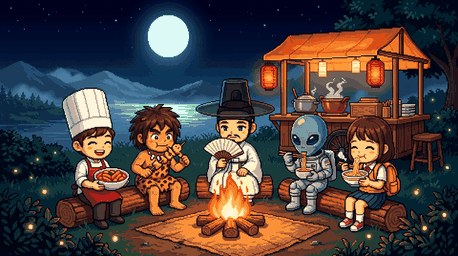
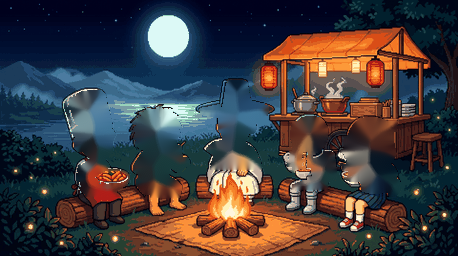
메인 화면: 캐릭터만 오려내 움직이고 뒤 배경은 그대로 (원시인 머리 뒤 호수가 같이 움직이던 문제)
- GrabCut으로 캐릭터 5명 윗몸만 오려 title_chars.png, 지운 자리는 주변 배경으로 채운 title.png
- 가만히 있을 때는 원본과 픽셀 단위로 같음, 씹을 때 머리를 두 번 그리지 않게

Claude-Session: https://claude.ai/code/session_0158wwMB9e4mDcVmGF2JCoym

Changed region(s): [[0.1223, 0.3438, 0.4279, 0.7812], [0.6114, 0.4375, 0.8865, 0.7812], [0.4279, 0.3125, 0.5808, 0.6875]]

diff --git a/js/title-bg.js b/js/title-bg.js
@@ -1,6 +1,7 @@
 // 메인 화면 배경: 달밤 모닥불 포장마차 그림(458×256 도트) + 별·모닥불·초롱·반딧불 움직임
 // 처음에는 그림 + 로고 + '게임 시작' 버튼, 누르면 그림이 어두워지고 로그인 칸이 뜸
-const SRC = 'assets/px/title.png';
+const SRC = 'assets/px/title.png';            // 캐릭터 윗몸을 지운 배경
+const CHARS = 'assets/px/title_chars.png';    // 캐릭터 윗몸만 (투명 배경)
 const IW = 458, IH = 256;
 const FIRE = { x: 230, y: 205 };
 const LANTERNS = [[303, 43], [373, 41], [411, 46], [342, 66]];
@@ -9,14 +10,14 @@ const SKY = '#01011d', GROUND = '#04141c';
 // ---------- 캐릭터 움직임 (그림 좌표) ----------
 // body: 숨쉬기(아래 기준으로 위로 살짝 늘었다 줄었다), head: 냠냠 씹기, fan: 부채질, eyes: 눈 깜빡임(lid: 눈꺼풀 색 뽑을 곳)
 const ACTORS = [
-  { name: 'chef', body: [60, 86, 128, 197], breath: [0.011, 2.1, 0.0] },
-  { name: 'caveman', body: [129, 100, 190, 198], breath: [0.010, 2.5, 1.3], head: [129, 102, 190, 158], chew: [13, 0.6],
+  { name: 'chef', body: [62, 88, 131, 197], breath: [0.011, 2.1, 0.0] },
+  { name: 'caveman', body: [129, 103, 191, 198], breath: [0.010, 2.5, 1.3], head: [129, 103, 191, 158], chew: [13, 0.6],
     eyes: [[151, 133, 7, 6], [166, 133, 7, 6]], lid: [160, 138] },
-  { name: 'scholar', body: [203, 76, 262, 170], breath: [0.008, 1.7, 2.6], fan: [203, 137, 244, 163],
+  { name: 'scholar', body: [197, 78, 270, 170], breath: [0.008, 1.7, 2.6], fan: [203, 137, 244, 163],
     eyes: [[221, 125, 9, 5], [237, 125, 9, 5]], lid: [233, 128] },
-  { name: 'alien', body: [283, 112, 338, 190], breath: [0.012, 2.7, 4.0],
+  { name: 'alien', body: [284, 114, 338, 190], breath: [0.012, 2.7, 4.0],
     eyes: [[292, 135, 9, 9], [306, 134, 10, 10]], lid: [303, 131] },
-  { name: 'girl', body: [343, 118, 402, 200], breath: [0.010, 2.3, 5.1], head: [343, 120, 402, 158], chew: [12, 2.4] },
+  { name: 'girl', body: [338, 115, 403, 200], breath: [0.010, 2.3, 5.1], head: [338, 115, 403, 158], chew: [12, 2.4] },
 ];
 const STEAM = [[112, 171], [303, 165], [356, 169], [336, 82], [312, 90]];
 const lidColor = {};
@@ -24,11 +25,12 @@ const blinkAt = {};
 const steam = [];
 function sampleLids() {
   const c = document.createElement('canvas'); c.width = IW; c.height = IH;
-  const g = c.getContext('2d'); g.drawImage(img, 0, 0);
+  const g = c.getContext('2d'); g.drawImage(chars || img, 0, 0);
   for (const a of ACTORS) if (a.lid) { const d = g.getImageData(a.lid[0], a.lid[1], 1, 1).data; lidColor[a.name] = `rgb(${d[0]},${d[1]},${d[2]})`; }
 }
 
 let img = null;
+let chars = null;
 let canvas = null;
 let raf = 0;
 let running = false;
@@ -41,7 +43,8 @@ const stars = Array.from({ length: 30 }, () => ({ x: Math.random() * IW, y: Math
 export async function initTitleBg() {
   canvas = document.getElementById('titleBg');
   if (!canvas) return;
-  img = await new Promise((res) => { const i = new Image(); i.onload = () => res(i); i.onerror = () => res(null); i.src = SRC; });
+  const load = (src) => new Promise((res) => { const i = new Image(); i.onload = () => res(i); i.onerror = () => res(null); i.src = src; });
+  [img, chars] = await Promise.all([load(SRC), load(CHARS)]);
   if (!img) return;
   try { sampleLids(); } catch (e) { /* ignore */ }
   window.addEventListener('resize', () => { if (running) draw(performance.now()); });
@@ -139,28 +142,32 @@ function draw(now) {
 function stretchY(g, X, Y, s, [x0, y0, x1], anchorSrc, anchorDst, sy) {
   const w = x1 - x0, h = anchorSrc - y0;
   const top = anchorDst - h * sy;
-  g.drawImage(img, x0, y0, w, h, X(x0), Y(top), w * s, (anchorDst - top) * s);
+  g.drawImage(chars, x0, y0, w, h, X(x0), Y(top), w * s, (anchorDst - top) * s);
 }
 function stretchX(g, X, Y, s, [x0, y0, x1, y1], anchorX, sx) {
   const w = anchorX - x0, h = y1 - y0;
   const left = anchorX - w * sx;
-  g.drawImage(img, x0, y0, w, h, X(left), Y(y0), (anchorX - left) * s, h * s);
+  g.drawImage(chars, x0, y0, w, h, X(left), Y(y0), (anchorX - left) * s, h * s);
 }
 
 function drawActors(g, t, X, Y, s) {
+  if (!chars) return;
   for (const a of ACTORS) {
     const [amp, rate, ph] = a.breath;
     const [x0, y0, x1, base] = a.body;
     const sb = 1 + amp * (0.5 + 0.5 * Math.sin(t * rate + ph));
-    stretchY(g, X, Y, s, [x0, y0, x1], base, base, sb);
-    // 냠냠: 몇 초마다 1.5초쯤 머리가 오물오물
-    if (a.head) {
+    // 냠냠: 몇 초마다 1.5초쯤 머리가 오물오물 (그때는 몸은 목 아래만, 머리는 따로 그려서 겹치지 않게)
+    const chewing = a.head && ((t + a.chew[1]) % 4) < 1.6;
+    if (chewing) {
       const [hx0, hy0, hx1, neck] = a.head;
-      const [crate, coff] = a.chew;
-      const chewing = ((t + coff) % 4) < 1.6;
-      const sc = chewing ? 1 + 0.03 * (0.5 + 0.5 * Math.sin(t * crate)) : 1;
       const neckDst = base - (base - neck) * sb;
-      if (chewing) stretchY(g, X, Y, s, [hx0, hy0, hx1], neck, neckDst, sc);
+      g.save(); g.beginPath(); g.rect(X(x0) - 2, Y(neckDst), (x1 - x0) * s + 4, (base - neckDst) * s + 2); g.clip();
+      stretchY(g, X, Y, s, [x0, y0, x1], base, base, sb);
+      g.restore();
+      const sc = 1 + 0.03 * (0.5 + 0.5 * Math.sin(t * a.chew[0]));
+      stretchY(g, X, Y, s, [hx0, hy0, hx1], neck, neckDst, sc);
+    } else {
+      stretchY(g, X, Y, s, [x0, y0, x1], base, base, sb);
     }
     // 부채질: 손잡이(오른쪽) 기준으로 부채가 살랑살랑
     if (a.fan) {

diff --git a/js/main.js b/js/main.js
@@ -8,25 +8,25 @@ import {
   INGREDIENTS, MENUS, ITEMS, FRIDGE_LEVELS, RESCUE_BASE, RESCUE_PER_CORRECT, won,
   hireStaff, fireStaff, staffOf, totalWages, sellIngredient, clearFridge, missingHint, setSaveScope,
   expandShop, nextShopLevel, buffSummary,
-} from './shop-engine.js?v=20261127013038';
-import { SHOP_LEVELS, gridOf } from './shop-levels.js?v=20261127013038';
-import { tryLogin, createAccount, lastLogin, hash, accountId, rememberServerAccount } from './account.js?v=20261127013038';
-import { liveKickGuest, liveClassControl, serverClosed, initLive, liveLogin, liveLogout, liveMode, liveSceneReady, liveVisitStart, liveVisitSticker, liveVisitEnd, isOnline, presenceOf } from './live.js?v=20261127013038';
-import { ERAS, eraOf, eraById, dexListOf, dexReward, MODERN_NAMES } from './data-eras.js?v=20261127013038';
-import { ensureEra, isUnlocked, eraReq, checkUnlocks, travel, dexProgress, claimDex } from './era-engine.js?v=20261127013038';
-import { registerEraArt, ERA_PEOPLE } from './era-art.js?v=20261127013038';
-import { initTitleBg, showTitleBg, dimTitleBg } from './title-bg.js?v=20261127013038';
-import { initCloud, cloudOn, cloudGetShop, cloudSaveShop, cloudRefreshClass, cloudWatchClass } from './cloud.js?v=20261127013038';
-import { syncGuestbook, STICKERS, stickerById, listClassmates, cheersLeftToday, cheeredToday, sendCheer, guestbookOf, pullIncomingCheers, ranking, RANKINGS, isDemo, CHEERS_PER_DAY } from './social-engine.js?v=20261127013038';
-import { STAFF_ROLES, STAFF_ORDER, speedStars } from './data-staff.js?v=20261127013038';
-import { QuizEngine } from './quiz-engine.js?v=20261127013038';
-import { QuizUI } from './quiz-ui.js?v=20261127013038';
-import { Business } from './business.js?v=20261127013038';
-import { sfx } from './sfx.js?v=20261127013038';
-import { loadSprites, spriteImg } from './sprites.js?v=20261127013038';
-import { ING_SPRITE } from './sprite-atlas.js?v=20261127013038';
-import { loadPx, pxImg, DISH_PX, ITEM_PX } from './px.js?v=20261127013038';
-import { CHEF_PARTS, CHEF_PART_LABEL, defaultChefStyle, randomChefStyle, registerChef, chefSheetOf } from './chef-maker.js?v=20261127013038';
+} from './shop-engine.js?v=20261127014359';
+import { SHOP_LEVELS, gridOf } from './shop-levels.js?v=20261127014359';
+import { tryLogin, createAccount, lastLogin, hash, accountId, rememberServerAccount } from './account.js?v=20261127014359';
+import { liveKickGuest, liveClassControl, serverClosed, initLive, liveLogin, liveLogout, liveMode, liveSceneReady, liveVisitStart, liveVisitSticker, liveVisitEnd, isOnline, presenceOf } from './live.js?v=20261127014359';
+import { ERAS, eraOf, eraById, dexListOf, dexReward, MODERN_NAMES } from './data-eras.js?v=20261127014359';
+import { ensureEra, isUnlocked, eraReq, checkUnlocks, travel, dexProgress, claimDex } from './era-engine.js?v=20261127014359';
+import { registerEraArt, ERA_PEOPLE } from './era-art.js?v=20261127014359';
+import { initTitleBg, showTitleBg, dimTitleBg } from './title-bg.js?v=20261127014359';
+import { initCloud, cloudOn, cloudGetShop, cloudSaveShop, cloudRefreshClass, cloudWatchClass } from './cloud.js?v=20261127014359';
+import { syncGuestbook, STICKERS, stickerById, listClassmates, cheersLeftToday, cheeredToday, sendCheer, guestbookOf, pullIncomingCheers, ranking, RANKINGS, isDemo, CHEERS_PER_DAY } from './social-engine.js?v=20261127014359';
+import { STAFF_ROLES, STAFF_ORDER, speedStars } from './data-staff.js?v=20261127014359';
+import { QuizEngine } from './quiz-engine.js?v=20261127014359';
+import { QuizUI } from './quiz-ui.js?v=20261127014359';
+import { Business } from './business.js?v=20261127014359';
+import { sfx } from './sfx.js?v=20261127014359';
+import { loadSprites, spriteImg } from './sprites.js?v=20261127014359';
+import { ING_SPRITE } from './sprite-atlas.js?v=20261127014359';
+import { loadPx, pxImg, DISH_PX, ITEM_PX } from './px.js?v=20261127014359';
+import { CHEF_PARTS, CHEF_PART_LABEL, defaultChefStyle, randomChefStyle, registerChef, chefSheetOf } from './chef-maker.js?v=20261127014359';
 
 const $ = (s) => document.querySelector(s);
 const $$ = (s) => [...document.querySelectorAll(s)];

diff --git a/js/social-engine.js b/js/social-engine.js
@@ -1,13 +1,13 @@
 // 친구 가게 방문(스냅샷) · 칭찬 스티커 방명록 · 홍보 버프 · 3종 랭킹
 // - 학급 서버(Firebase) 연결 전: 같은 기기에 있는 같은 반 계정 + 체험용 가상 친구 5명
 // - 3차에서 Firebase를 연결하면 이 파일의 저장소 부분만 Firestore(shops / guestbooks)로 바뀜
-import { isFirebaseEnabled } from './firebase-config.js?v=20261127013038';
-import { loadShopOf, fitLayout } from './shop-engine.js?v=20261127013038';
-import { classmatesOnDevice } from './account.js?v=20261127013038';
-import { cloudOn, cloudClassmates, cloudSendCheer, cloudGuestbook } from './cloud.js?v=20261127013038';
-import { ITEMS, FRIDGE_LEVELS } from './data-interior.js?v=20261127013038';
-import { staffTier } from './data-staff.js?v=20261127013038';
-import { SHOP_LEVELS } from './shop-levels.js?v=20261127013038';
+import { isFirebaseEnabled } from './firebase-config.js?v=20261127014359';
+import { loadShopOf, fitLayout } from './shop-engine.js?v=20261127014359';
+import { classmatesOnDevice } from './account.js?v=20261127014359';
+import { cloudOn, cloudClassmates, cloudSendCheer, cloudGuestbook } from './cloud.js?v=20261127014359';
+import { ITEMS, FRIDGE_LEVELS } from './data-interior.js?v=20261127014359';
+import { staffTier } from './data-staff.js?v=20261127014359';
+import { SHOP_LEVELS } from './shop-levels.js?v=20261127014359';
 
 const KEY = 'chefmaster_social_v1';
 export const CHEERS_PER_DAY = 3;

diff --git a/js/business.js b/js/business.js
@@ -5,12 +5,12 @@
 import {
   MENUS, ITEMS, GRADE, TIP_RATE, tablesOf, branchMenus, canCook, anyCookable,
   consume, menuPrice, gradeFromCorrect, currentForecast, newDayStats, won, staffOf, furnitureBuffs,
-} from './shop-engine.js?v=20261127013038';
-import { geometry, levelOf } from './shop-levels.js?v=20261127013038';
-import { px, roomFor, roomTinted, DISH_PX, ITEM_PX, hasSprite, walkFrame } from './px.js?v=20261127013038';
-import { chefSheetOf } from './chef-maker.js?v=20261127013038';
-import { eraOf, ERAS } from './data-eras.js?v=20261127013038';
-import { recordDex, ensureEra } from './era-engine.js?v=20261127013038';
+} from './shop-engine.js?v=20261127014359';
+import { geometry, levelOf } from './shop-levels.js?v=20261127014359';
+import { px, roomFor, roomTinted, DISH_PX, ITEM_PX, hasSprite, walkFrame } from './px.js?v=20261127014359';
+import { chefSheetOf } from './chef-maker.js?v=20261127014359';
+import { eraOf, ERAS } from './data-eras.js?v=20261127014359';
+import { recordDex, ensureEra } from './era-engine.js?v=20261127014359';
 
 export const DAY_LENGTH = 150;      // 실제 초 (2분 30초)
 const EAT_TIME = 4.0;

diff --git a/js/shop-engine.js b/js/shop-engine.js
@@ -1,8 +1,8 @@
 // 가게 상태·경제·저장 엔진 (localStorage 단독 모드, 3차에서 Firestore 연동)
-import { INGREDIENTS, MENUS, BRANCHES, FORECASTS, menuCost } from './data-menus.js?v=20261127013038';
-import { ITEMS, FRIDGE_LEVELS, DECO_BONUS_CAP, BUFF_CAP } from './data-interior.js?v=20261127013038';
-import { SHOP_LEVELS, gridOf } from './shop-levels.js?v=20261127013038';
-import { staffTier } from './data-staff.js?v=20261127013038';
+import { INGREDIENTS, MENUS, BRANCHES, FORECASTS, menuCost } from './data-menus.js?v=20261127014359';
+import { ITEMS, FRIDGE_LEVELS, DECO_BONUS_CAP, BUFF_CAP } from './data-interior.js?v=20261127014359';
+import { SHOP_LEVELS, gridOf } from './shop-levels.js?v=20261127014359';
+import { staffTier } from './data-staff.js?v=20261127014359';
 
 export const SAVE_KEY = 'chefmaster_shop_v1';
 export const SETTINGS_KEY = 'chefmaster_settings_v1';

diff --git a/js/live.js b/js/live.js
@@ -3,8 +3,8 @@ import {
   cloudOn, cloudPresence, cloudWatchPresence, cloudVisitStart, cloudVisitUpdate, cloudVisitEnd, cloudWatchVisits,
   cloudWatchChat, cloudSendChat, cloudWatchAnnounce, cloudAnnounce, cloudClassControl, cloudTeacherSignIn, cloudTeacherSignOut, ONLINE_MS,
   cloudWatchServer, cloudSetServer, cloudResetCode, cloudClassShops, cloudWatchClass, cloudWatchVisitDoc,
-} from './cloud.js?v=20261127013038';
-import { registerChef, chefSheetOf } from './chef-maker.js?v=20261127013038';
+} from './cloud.js?v=20261127014359';
+import { registerChef, chefSheetOf } from './chef-maker.js?v=20261127014359';
 
 const $ = (s) => document.querySelector(s);
 const esc = (s) => String(s).replace(/[&<>"]/g, (c) => ({ '&': '&amp;', '<': '&lt;', '>': '&gt;', '"': '&quot;' }[c]));

diff --git a/index.html b/index.html
@@ -12,8 +12,8 @@
   <link rel="manifest" href="manifest.webmanifest">
   <link rel="icon" href="assets/icon-192.png">
   <link rel="apple-touch-icon" href="assets/icon-192.png">
-  <link rel="stylesheet" href="css/style.css?v=20261127013038">
-  <script src="js/open-in-chrome.js?v=20261127013038"></script>
+  <link rel="stylesheet" href="css/style.css?v=20261127014359">
+  <script src="js/open-in-chrome.js?v=20261127014359"></script>
 </head>
 <body>
   <div id="game">
@@ -193,6 +193,6 @@
 
   <div id="toast"></div>
 
-  <script type="module" src="js/main.js?v=20261127013038"></script>
+  <script type="module" src="js/main.js?v=20261127014359"></script>
 </body>
 </html>

diff --git a/js/sprites.js b/js/sprites.js
@@ -2,7 +2,7 @@
 // - 아틀라스(assets/sprites.png)의 각 영역을 개별 캔버스로 잘라 둡니다.
 // - 시트에 없는 캐릭터(손님·사장님·알바)와 튀김·어묵탕은 픽셀 템플릿으로 직접 그리고,
 //   1px 검은 외곽선 + 오른쪽/아래 음영 + 왼쪽 위 하이라이트를 자동으로 넣어 16비트 도트 느낌을 냅니다.
-import { ATLAS_SRC, RECTS } from './sprite-atlas.js?v=20261127013038';
+import { ATLAS_SRC, RECTS } from './sprite-atlas.js?v=20261127014359';
 
 const cache = {};
 const urlCache = {};

diff --git a/js/quiz-engine.js b/js/quiz-engine.js
@@ -1,6 +1,6 @@
 // 퀴즈 엔진: 과목 비중, 적응형 난이도(기초→보통→도전), 중복 방지(최근 20문제), 오답 재출제, 정답률 통계
-import { generateMath, UNITS } from './math-g5.js?v=20261127013038';
-import { WORDS, DIALOGS, SENTENCES, PICTURES } from './data-english-g5.js?v=20261127013038';
+import { generateMath, UNITS } from './math-g5.js?v=20261127014359';
+import { WORDS, DIALOGS, SENTENCES, PICTURES } from './data-english-g5.js?v=20261127014359';
 
 const MEM_KEY = 'chefmaster_quiz_v1';
 const RECENT_MAX = 20;

diff --git a/js/px.js b/js/px.js
@@ -1,7 +1,7 @@
 // 픽셀 에셋 로더 (assets/px) — 모든 그림을 같은 1배 픽셀 격자로 관리
-import { PX_SRC, PX_ROOM, PX } from './px-atlas.js?v=20261127013038';
-import { nativeDish } from './sprites.js?v=20261127013038';
-import { SHOP_LEVELS } from './shop-levels.js?v=20261127013038';
+import { PX_SRC, PX_ROOM, PX } from './px-atlas.js?v=20261127014359';
+import { nativeDish } from './sprites.js?v=20261127014359';
+import { SHOP_LEVELS } from './shop-levels.js?v=20261127014359';
 
 const cache = {};
 const urls = {};

diff --git a/js/chef-maker.js b/js/chef-maker.js
@@ -1,6 +1,6 @@
 // 셰프 꾸미기: 부위별 선택 → 4방향 도트 셰프를 즉석에서 그림 (외곽선·음영 자동)
 // 머리 모양·머리색·피부색·눈·입·안경·볼터치·앞치마 색
-import { setSprite, hasSprite } from './px.js?v=20261127013038';
+import { setSprite, hasSprite } from './px.js?v=20261127014359';
 
 export const CHEF_PARTS = {
   hair: ['긴 생머리', '단발 + 앞머리', '묶은 머리', '중단발', '바가지 머리', '짧은 머리', '삐죽 머리', '아주 짧은 머리'],

diff --git a/js/era-engine.js b/js/era-engine.js
@@ -1,6 +1,6 @@
 // 시간여행 규칙: 장소 열기·이동·손님 도감
-import { ERAS, eraById, dexListOf, dexReward } from './data-eras.js?v=20261127013038';
-import { totalAssets } from './social-engine.js?v=20261127013038';
+import { ERAS, eraById, dexListOf, dexReward } from './data-eras.js?v=20261127014359';
+import { totalAssets } from './social-engine.js?v=20261127014359';
 
 /** 예전 저장에도 시간여행 칸 채우기 */
 export function ensureEra(s) {
